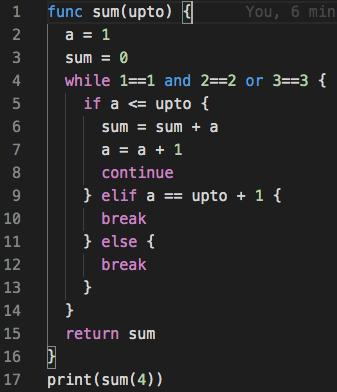
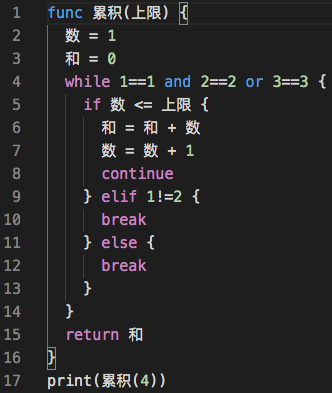
演示中文, 安装说明

diff --git a/README.md b/README.md
@@ -4,7 +4,9 @@
 
 ![](截图/全部元素.png)
 
-更多测试代码在[木兰复现原型](https://github.com/MulanRevive/prototype)。
+更多示例请见基于原 exe 的[用户手册](https://github.com/MulanRevive/bounty/tree/master/%E5%A4%8D%E7%8E%B0%E6%96%87%E6%A1%A3/%E7%94%A8%E6%88%B7%E6%89%8B%E5%86%8C)编写过程中积累的[测试用例](https://github.com/MulanRevive/bounty/blob/master/%E6%B5%8B%E8%AF%95%E4%BB%A3%E7%A0%81/%E6%B5%8B%E8%AF%95.py), 与[原型搭建](https://github.com/MulanRevive/prototype)过程中积累至今的[测试](https://github.com/MulanRevive/prototype/blob/master/%E6%B5%8B%E8%AF%95.py)
+
+运行代码请安装`pip install mulang`，PyPI 发布[在此](https://pypi.org/project/mulang/)。
 
 ## Features
 
